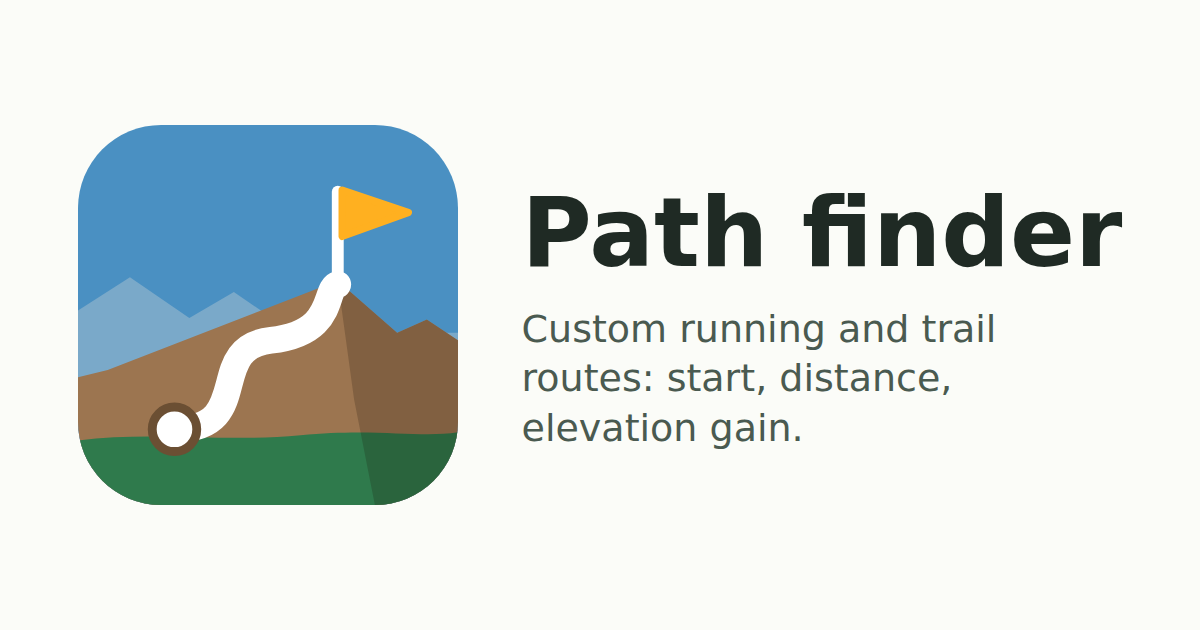
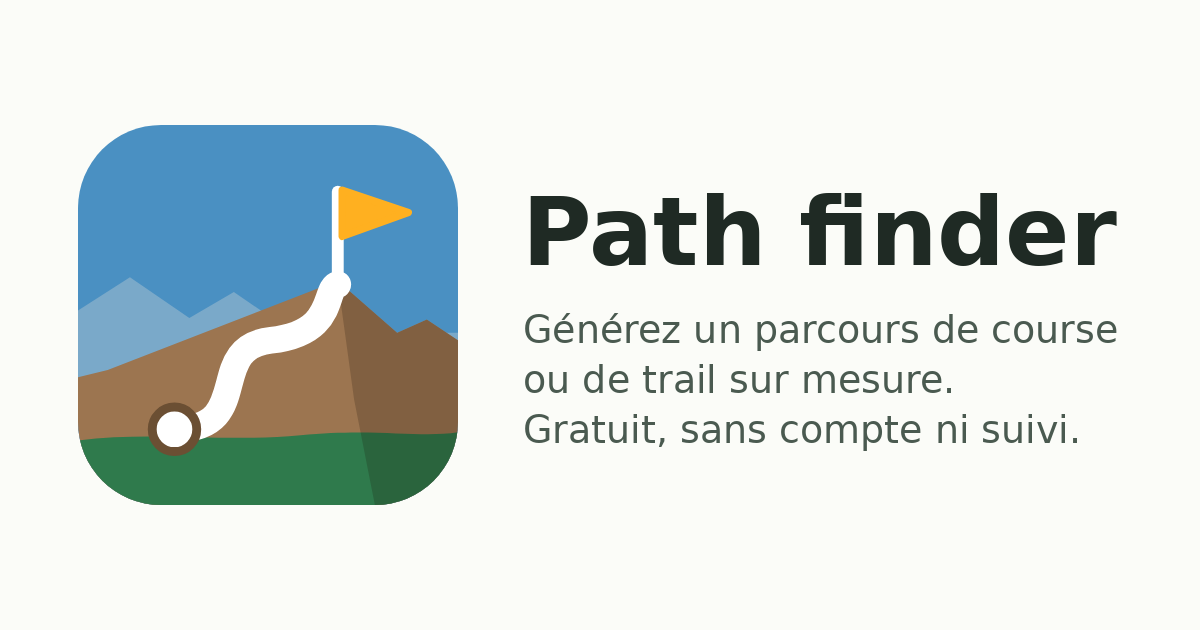
feat: serve the page meta in French (#229)

diff --git a/apps/web/index.html b/apps/web/index.html
@@ -1,5 +1,5 @@
 <!doctype html>
-<html lang="en">
+<html lang="fr">
   <head>
     <meta charset="UTF-8" />
     <meta name="viewport" content="width=device-width, initial-scale=1, viewport-fit=cover" />
@@ -10,21 +10,22 @@
     <link rel="manifest" href="/manifest.webmanifest" />
     <meta
       name="description"
-      content="Create custom running and trail routes: start, distance, elevation gain. Free, open source, no account, no tracking."
+      content="Générez un parcours de course ou de trail sur mesure. Gratuit, sans compte ni suivi."
     />
     <meta property="og:type" content="website" />
+    <meta property="og:locale" content="fr_FR" />
     <meta property="og:site_name" content="Path finder" />
     <meta property="og:title" content="Path finder" />
     <meta
       property="og:description"
-      content="Create custom running and trail routes: start, distance, elevation gain. Free, open source, no account, no tracking."
+      content="Générez un parcours de course ou de trail sur mesure. Gratuit, sans compte ni suivi."
     />
     <meta property="og:url" content="https://mypathfinder.fr/" />
     <meta property="og:image" content="https://mypathfinder.fr/og-image.png" />
     <meta property="og:image:type" content="image/png" />
     <meta property="og:image:width" content="1200" />
     <meta property="og:image:height" content="630" />
-    <meta property="og:image:alt" content="The Path finder logo" />
+    <meta property="og:image:alt" content="Le logo de Path finder" />
   </head>
   <body>
     <div id="root"></div>

diff --git a/apps/web/src/i18n/common.ts b/apps/web/src/i18n/common.ts
@@ -15,8 +15,7 @@ export const commonText = {
     mapName: 'Map',
     toggleAttribution: 'Toggle attribution',
     gpxAttribution: 'Data © OpenStreetMap contributors, ODbL.',
-    description:
-      'Create custom running and trail routes: start, distance, elevation gain. Free, open source, no account, no tracking.',
+    description: 'Generate a custom running or trail route. Free, no account, no tracking.',
   },
   fr: {
     back: 'Retour',
@@ -31,7 +30,6 @@ export const commonText = {
     mapName: 'Carte',
     toggleAttribution: 'Afficher les crédits de la carte',
     gpxAttribution: 'Données © les contributeurs d’OpenStreetMap, ODbL.',
-    description:
-      'Créez des parcours de course et de trail sur mesure : départ, distance, dénivelé. Gratuit, open source, sans compte ni suivi.',
+    description: 'Générez un parcours de course ou de trail sur mesure. Gratuit, sans compte ni suivi.',
   },
 } satisfies Record<Language, unknown>;

diff --git a/apps/web/src/core/page-meta-test.ts b/apps/web/src/core/page-meta-test.ts
@@ -1,8 +1,6 @@
 import indexHtml from '../../index.html?raw';
-import { commonText } from '../i18n/index.ts';
 import { applyDescription } from './page-meta.ts';
 
-const page = new DOMParser().parseFromString(indexHtml, 'text/html');
 const description = (doc: Document, selector: string) => doc.head.querySelector(selector)?.getAttribute('content');
 
 describe('applyDescription', () => {
@@ -13,12 +11,5 @@ describe('applyDescription', () => {
 
     expect(description(doc, 'meta[name="description"]')).toBe('Une description');
     expect(description(doc, 'meta[property="og:description"]')).toBe('Une description');
-  });
-});
-
-describe('index.html', () => {
-  it('describes the app as the English text does, for what runs no script', () => {
-    expect(description(page, 'meta[name="description"]')).toBe(commonText.en.description);
-    expect(description(page, 'meta[property="og:description"]')).toBe(commonText.en.description);
   });
 });

diff --git a/README.md b/README.md
@@ -4,7 +4,7 @@
 
 <h1 align="center">Path finder</h1>
 
-<h3 align="center">Your next run or hike, without being tracked</h3>
+<h3 align="center">Generate a custom running or trail route. Free, no account, no tracking.</h3>
 
 <p align="center">
   A privacy-first web app that generates running and trail routes in France from where you
